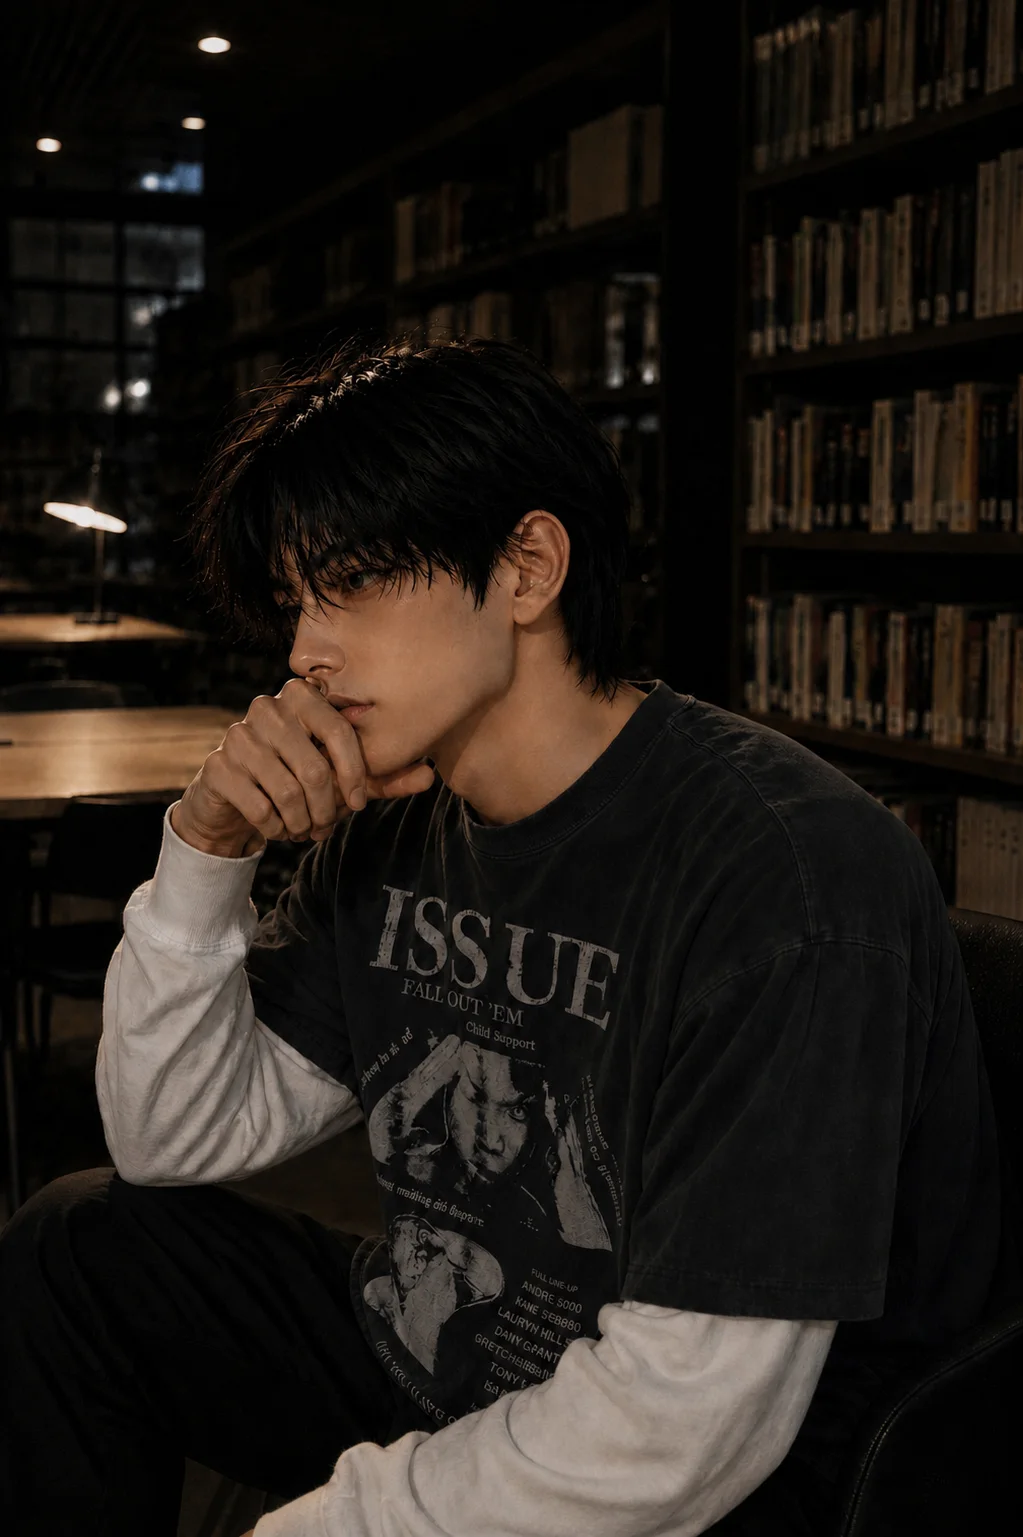
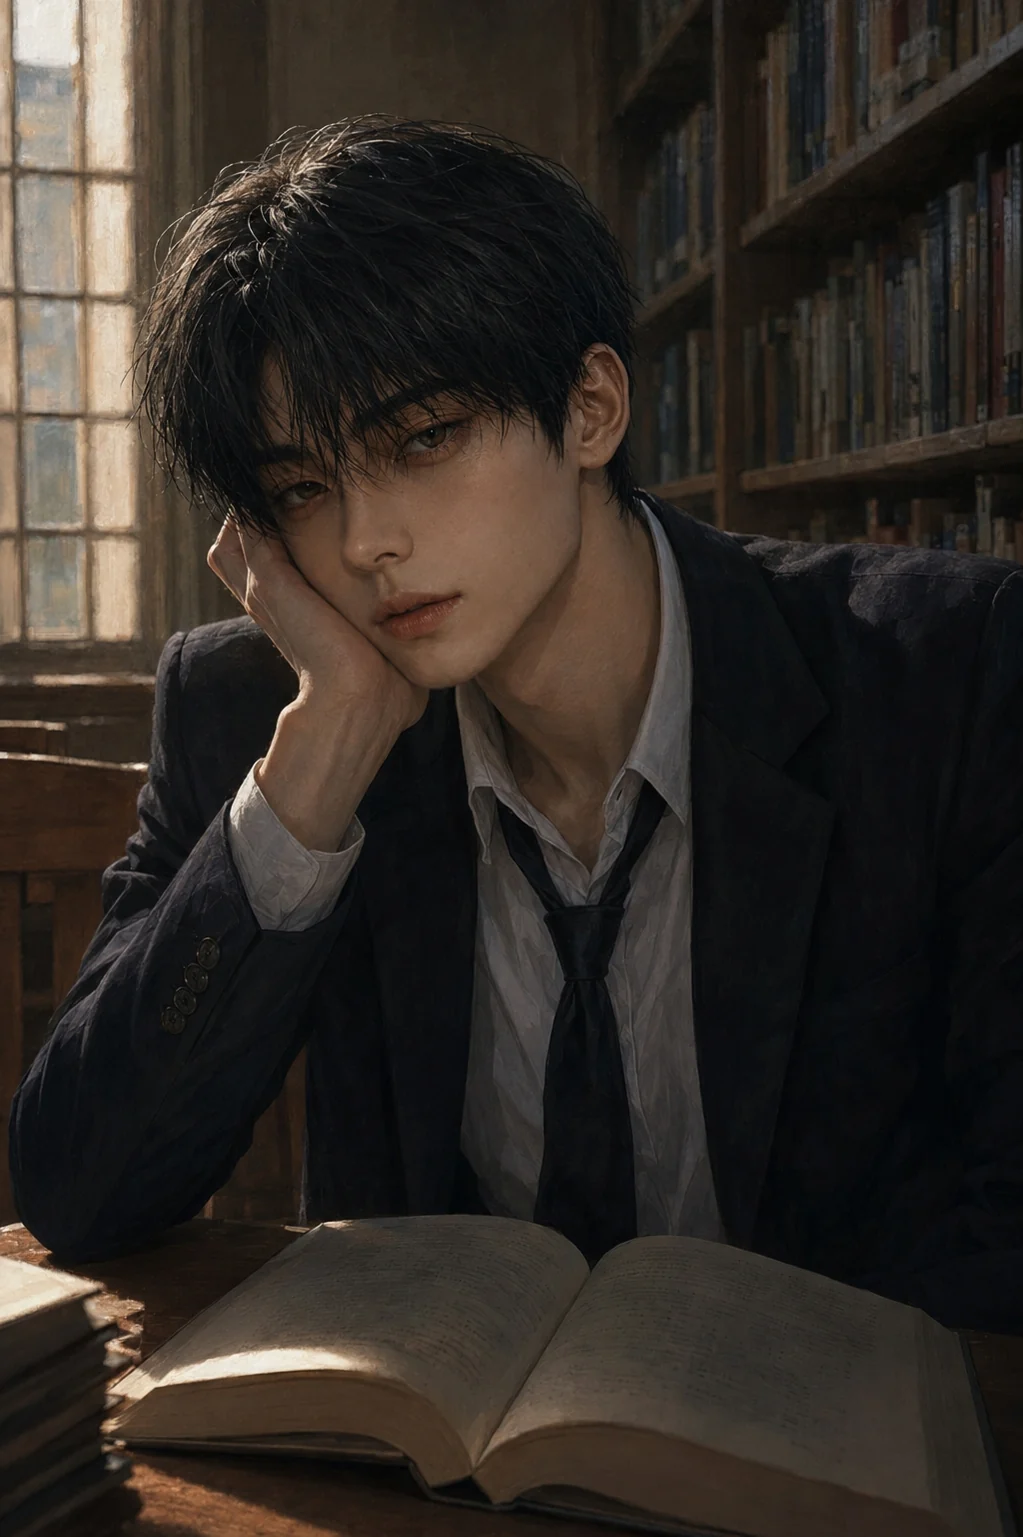
민현 도서관 사진 교체 · 갈라진 판 번호를 하나로 (#13)
minhyun-shelf.webp — 준 그림으로. 옆 자리 사진들과 같은 치수(1023×1537),
같은 결(WebP q86)로 넣었다. 파일 이름이 그대로라 부르는 자리 셋(자리 사진
표 · 민현 사진첩 · 워커 사진 설명)은 안 건드렸다. 워커 설명도 그대로 맞는다
— 「도서관 열람실. 턱을 괴고 딴 데를 보고 있다. 책은 안 읽는 중이다.」

그런데 그림만 갈면 사람 화면에는 옛 그림이 그대로 남는다. 번호가 세 갈래로
갈려 있었다:
    index.html   ?v=251
    20-content   AV="?v=241"
    시험 못박기   '241'
그림은 AV를 타므로 241 그대로 나가서 브라우저가 옛 파일을 계속 쓴다.
시험 넷(판 번호·그림 번호·바벨 둘)이 이걸로 이미 깨져 있었다 — 내 것 없이
받아만 봐도 4개 실패였다. 셋을 252로 맞추고 해시를 새로 적었다.

시험 2289개 통과 · 세 표준시. engine-pipeline 의 2개(재생 원문 창·요약
문턱)는 내 것과 무관하게 원래 깨져 있던 자리라 손대지 않았다.

Claude-Session: https://claude.ai/code/session_01Abubm1X1ct2srazJBiqqff

diff --git a/app/lib/rules.ts b/app/lib/rules.ts
@@ -1,5 +1,5 @@
 /* 이 파일은 손으로 고치지 않는다.
-   app-data.js에서 tools/build-rules.mjs가 만든다 — 규칙을 고칠 곳은 그쪽 하나다.
+   scripts/data에서 tools/build-rules.mjs가 만든다 — 규칙을 고칠 곳은 그쪽 하나다.
    웹과 앱이 같은 글을 읽어야 같은 세계가 된다. 베껴 두면 반드시 갈라진다.
    다시 만들기: node tools/build-rules.mjs */
 // @ts-nocheck
@@ -210,6 +210,7 @@ const sys1Due=store=>{
    첫 항목이 같은 값을 들고 있다 — 그 창은 오프닝이 닫힐 때 처음 뜨므로
    맨 앞이 오프닝 방이다. 없으면 null이고, 없는 것은 모르는 것이지
    틀린 것이 아니다 — 부르는 쪽이 「모르면 지금까지대로」로 받는다. */
+
 /* ── 유저의 옛 일기 ──
    재언 방에 처음 들어가는 순간, 선톡 앞에 한 번. 20년 전 공부방 아이가
    쓴 것이고, 유저는 그걸 읽고 마지막 한 칸을 채운다.
@@ -404,6 +405,7 @@ const countCalls=(store,name)=>{
   return n;
 };
 const filledLetters=(calls,name)=>Math.min((name||"").length,Math.floor(calls/CALL_PER_LETTER));
+
 const ROOMS = [
   {id:"jaeeon", name:"이재언", color:"#7FD8D8", type:"dm",    sub:"보건교사",   empty:"보건교사, 29세"},
   {id:"minhyun",name:"이민현", color:"#FF9E80", type:"dm",    sub:"3학년",      empty:"고등학생, 20세"},
@@ -417,7 +419,7 @@ const roomOf = id => ROOMS.find(r=>r.id===id);
    화면에는 옛 사물함이 그대로 떴다 — 브라우저가 같은 이름의 옛 파일을 계속
    쓴 것이다. index.html이 갈라진 파일에 붙이는 ?v= 와 같은 번호를 그림에도
    붙인다. 번호가 갈리면 시험이 잡는다. */
-const AV="?v=204";
+const AV="?v=241";
 const av=s=>s?s+AV:s;
 
 /* 사진: 백엔드가 보내는 key ↔ 실제 파일(key.webp). 목록에 없는 key는 무시한다. */
@@ -593,6 +595,7 @@ const saveStore=s=>{try{localStorage.setItem("null_store_v1",JSON.stringify(s));
 const loadProfile=()=>{try{return JSON.parse(localStorage.getItem("null_profile"))||{}}catch(e){return{}}};
 
 /* 시간 포맷 */
+
 /* ── 데모 모드 ──
    키가 없거나 API가 죽어도 빈 화면을 보여주지 않는다. 각본이라도 움직이는 편이 낫다.
    ?demo=1 로 켜지면 계속 데모다. 그게 아니면 실패한 턴만 각본으로 메우고
@@ -642,7 +645,6 @@ const demoAsk=payload=>{
    "회색 머그컵 선물이에요"가 아무 데도 안 걸려서 못 알아들었다는 답이 나갔다.
    열쇠를 그대로 넘겨 표에서 바로 찾는다. */
 const demoGiftKey=payload=>(payload.gift&&payload.gift.key)||null;
-
 
 /* ── 화면은 세계의 시각을 말한다 ──
    저장된 ts는 현실 epoch지만, 그리는 순간 gameAt으로 번역한다. 프롬프트와
@@ -907,6 +909,7 @@ const saveAutoDay=v=>{try{localStorage.setItem("null_auto_day",v)}catch(e){}};
    없다. 그래서 괄호 지문으로 때우다가 「이건 그냥 텍스트니까요」까지 갔다.
    자리에 가면 그 자리를 깔고 말풍선을 걷는다 — 화면이 「지금 여기 같이 있다」를
    대신 말해준다. 사진은 아래쪽이 다 어두워서 흰 글씨가 그냥 읽힌다. */
+
 /* ── 지도 ──
    전에는 인물이 가자고 할 때만 자리가 열렸다. 그래서 「귀양 가는 기분」이라는
    말이 나왔다 — 가는 곳을 늘 저쪽이 정하니까. 지도는 반대다. 유저가 자리를
@@ -1504,6 +1507,7 @@ const saveScene=v=>{try{v?localStorage.setItem("null_scene",JSON.stringify(v)):l
    모델에게 시켜서 알아서 모으게 하는 길도 있는데 안 골랐다. ① 그 말이
    인물에게도 보이므로 인물이 거기 답한다. ② 알아채는 게 확률이라 놓치는
    날이 있다. 놓친 것은 없는 것이고, 그러면 모으는 뜻이 없다. */
+
 const EDIT_MAX=500;
 const loadEdits=()=>{try{return JSON.parse(localStorage.getItem("null_edits"))||[]}catch(e){return[]}};
 const saveEdits=a=>{try{localStorage.setItem("null_edits",JSON.stringify(a.slice(-EDIT_MAX)))}catch(e){}};
@@ -1921,6 +1925,7 @@ function seenPhotos(msgs){
   loadShots().forEach(k=>set.add(String(k).replace(/\.webp$/,"")));
   return set;
 }
+
 
 
 return {

diff --git a/index.html b/index.html
@@ -16,7 +16,7 @@
 <script src="https://unpkg.com/react-dom@18/umd/react-dom.production.min.js"></script>
 <script src="https://unpkg.com/@babel/standalone@7/babel.min.js"></script>
 <!-- 데모 대사·매칭. 문구집에서 만들어진 파일이라 직접 고치지 않는다 -->
-<script src="demo-lines.js?v=251"></script>
+<script src="demo-lines.js?v=252"></script>
 <script>
 /* 리스타트의 뒷정리.
    지우고 바로 다시 여는 방식은 안 됐다 — 다시 열리기 전 몇 밀리초 사이에
@@ -62,29 +62,29 @@ try{
 }catch(e){}
 </script>
 <!-- 실행 파일과 CSS manifest는 같은 캐시 번호를 쓴다. -->
-<link rel="stylesheet" href="null.css?v=251">
+<link rel="stylesheet" href="null.css?v=252">
 </head>
 <body>
 <div id="root"></div>
 <!-- 데이터와 규칙. 번호 순서가 의존 순서다. -->
-<script src="scripts/data/00-runtime.js?v=251"></script>
-<script src="scripts/data/10-memory.js?v=251"></script>
-<script src="scripts/data/20-content.js?v=251"></script>
-<script src="scripts/data/30-world.js?v=251"></script>
-<script src="scripts/data/40-places.js?v=251"></script>
-<script src="scripts/data/50-story-state.js?v=251"></script>
+<script src="scripts/data/00-runtime.js?v=252"></script>
+<script src="scripts/data/10-memory.js?v=252"></script>
+<script src="scripts/data/20-content.js?v=252"></script>
+<script src="scripts/data/30-world.js?v=252"></script>
+<script src="scripts/data/40-places.js?v=252"></script>
+<script src="scripts/data/50-story-state.js?v=252"></script>
 
 <!-- JSX 화면 컴포넌트. 공용 부품에서 완성 화면 순서로 선언한다. -->
-<script type="text/babel" src="scripts/ui/00-profile.js?v=251"></script>
-<script type="text/babel" src="scripts/ui/10-opening.js?v=251"></script>
-<script type="text/babel" src="scripts/ui/20-story-overlays.js?v=251"></script>
-<script type="text/babel" src="scripts/ui/30-messenger.js?v=251"></script>
-<script type="text/babel" src="scripts/ui/40-chat.js?v=251"></script>
-<script type="text/babel" src="scripts/ui/50-game-screen.js?v=251"></script>
+<script type="text/babel" src="scripts/ui/00-profile.js?v=252"></script>
+<script type="text/babel" src="scripts/ui/10-opening.js?v=252"></script>
+<script type="text/babel" src="scripts/ui/20-story-overlays.js?v=252"></script>
+<script type="text/babel" src="scripts/ui/30-messenger.js?v=252"></script>
+<script type="text/babel" src="scripts/ui/40-chat.js?v=252"></script>
+<script type="text/babel" src="scripts/ui/50-game-screen.js?v=252"></script>
 
 <!-- 상태·요청 orchestration 뒤에 진입점이 앱을 마운트한다. -->
-<script type="text/babel" src="scripts/game.js?v=251"></script>
-<script type="text/babel" src="app.js?v=251"></script>
+<script type="text/babel" src="scripts/game.js?v=252"></script>
+<script type="text/babel" src="app.js?v=252"></script>
 <template id="__bundler_thumbnail"><svg xmlns="http://www.w3.org/2000/svg" viewBox="0 0 100 100"><rect width="100" height="100" fill="#b8a5e3"/><text x="50" y="58" text-anchor="middle" font-family="monospace" font-size="26" letter-spacing="4" fill="#fff">NULL</text></svg></template>
 </body>
 </html>

diff --git a/scripts/data/20-content.js b/scripts/data/20-content.js
@@ -13,7 +13,7 @@ const roomOf = id => ROOMS.find(r=>r.id===id);
    화면에는 옛 사물함이 그대로 떴다 — 브라우저가 같은 이름의 옛 파일을 계속
    쓴 것이다. index.html이 갈라진 파일에 붙이는 ?v= 와 같은 번호를 그림에도
    붙인다. 번호가 갈리면 시험이 잡는다. */
-const AV="?v=241";
+const AV="?v=252";
 const av=s=>s?s+AV:s;
 
 /* 사진: 백엔드가 보내는 key ↔ 실제 파일(key.webp). 목록에 없는 key는 무시한다. */
